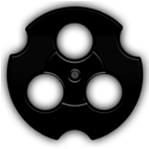
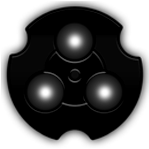
Initial bits for fire-at-game animation

diff --git a/r3/revo.js b/r3/revo.js
@@ -119,31 +119,93 @@ function addBullet(isGameFacing)
 	if(isGameFacing)
 		_BUL[_ICYL].style.webkitTransform = 'rotate('+randomInt(0,360)+'deg)' ;
 
-	// If we just loaded the last player-facing bullet, trigger death sequence
-	if(_ICYL == 2)
-	{
-		runDeathSequence() ;
-		_ICYL = 0 ;
-		return ;
-	}
-
-	// If we just loaded the last game-facing bullet, trigger fireworks sequence
-	if(_ICYL == 5)
-	{
-		unloadCyl() ;
-		_ICYL = 0 ;
-		scorePlus() ;
-		return ;
-	}
-
 	_ICYL++ ;
 }
 
 function unloadCyl()
 {
 	for(var i = 0; i < _BUL.length; i++)
+	{
 		_BUL[i].style.display = 'none' ;
+		if(i > 2) _BUL[i].src = 'bullet-gf.png' ;
+	}
+}
 
-	// Give 'er a spin
-	//_elCyl.style.webkitTransform = 'rotate(360deg)' ;
+function fireAtGame()
+{
+	// Fire 1st round, kick back
+	console.log('Fire 1') ;
+	// Cancel timing function here if snap back is preferred ...
+	_CYL.style.webkitTransform = 'scale( 1.2, 1.2 )' ;
+	_BUL[3].src = 'bullet-gf-fired.png' ;
+
+	// Snap home, rotate to next chamber
+	window.setTimeout(function(){
+		_CYL.style.webkitTransform = 'rotate( 120deg ) scale( 1, 1 )' ;
+	}, 500) ;
+
+	// Fire 2nd round, kick back
+	window.setTimeout(function(){
+		CYL.style.webkitTransform = 'rotate( 120deg ) scale( 1.2, 1.2 )' ;
+		_BUL[4].src = 'bullet-gf-fired.png' ;
+	}, 1000) ;
+
+	// Snap home, rotate to next chamber
+	window.setTimeout(function(){
+		_CYL.style.webkitTransform = 'rotate( 240deg ) scale( 1, 1 )' ;
+	}, 1500) ;
+
+	// Fire 3rd round, kick back
+	window.setTimeout(function(){
+		_BUL[5].src = 'bullet-gf-fired.png' ;
+		_CYL.style.webkitTransform = 'rotate( 240deg ) scale( 1.2, 1.2 )' ;
+	}, 2000) ;
+
+
+	// Snap home, spin back to zero, unload cylinders
+	window.setTimeout(function(){
+		unloadCyl() ;
+		_CYL.style.webkitTransform = 'rotate( 0deg ) scale( 1, 1 )' ;
+		_ICYL = 0 ;
+	}, 2500) ;
+}
+
+// Kick back, towards player (when firing at game)
+function cylBack()
+{
+	_CYL.style.backgroundSize = '170px 170px' ;
+
+	_CYL.style.width = '170px' ;
+	_CYL.style.height = '170px' ;
+
+	_CYL.style.left = '431px' ;
+	_CYL.style.top = '585px' ;
+}
+
+function cylHome()
+{
+	_CYL.style.backgroundSize = '150px 150px' ;
+
+	_CYL.style.width = '150px' ;
+	_CYL.style.height = '150px' ;
+
+	_CYL.style.left = '441px' ;
+	_CYL.style.top = '595px' ;
+}
+
+// Kick back, away from player (when firing at ... player)
+function cylFwd()
+{
+	_CYL.style.backgroundSize = '130px 130px' ;
+
+	_CYL.style.width = '130px' ;
+	_CYL.style.height = '130px' ;
+
+	_CYL.style.left = '451px' ;
+	_CYL.style.top = '605px' ;
+}
+
+function fireAtPlayer()
+{
+	return true ;
 }

diff --git a/r3/index.html b/r3/index.html
@@ -435,8 +435,10 @@ function registerHit()
 	if(_H == 3)
 	{
 		_H = 0 ;
-		doGFla() ;
-		scorePlus() ;
+		addBullet(1) ;
+		window.setTimeout( function(){ fireAtGame(); scorePlus();}, 100 ) ;
+		window.setTimeout( doGFla, 500 ) ;
+		return ;
 	}
 
 	addBullet(1) ;
@@ -446,6 +448,11 @@ function registerMiss()
 {
 	if(_H > 0) _H = 0 ;
 	_H-- ;
+
+	if(_H == -3)
+	{
+		runDeathSequence() ;
+	}
 
 	addBullet() ;
 }

diff --git a/r3/style.css b/r3/style.css
@@ -83,7 +83,7 @@ body{
 	top: 595px ;
 
 	-webkit-transition-timing-function: ease-out ;
-	-webkit-transition: -webkit-transform 1s ;
+	-webkit-transition: -webkit-transform 0.25s ;
 }
 
 #seg
